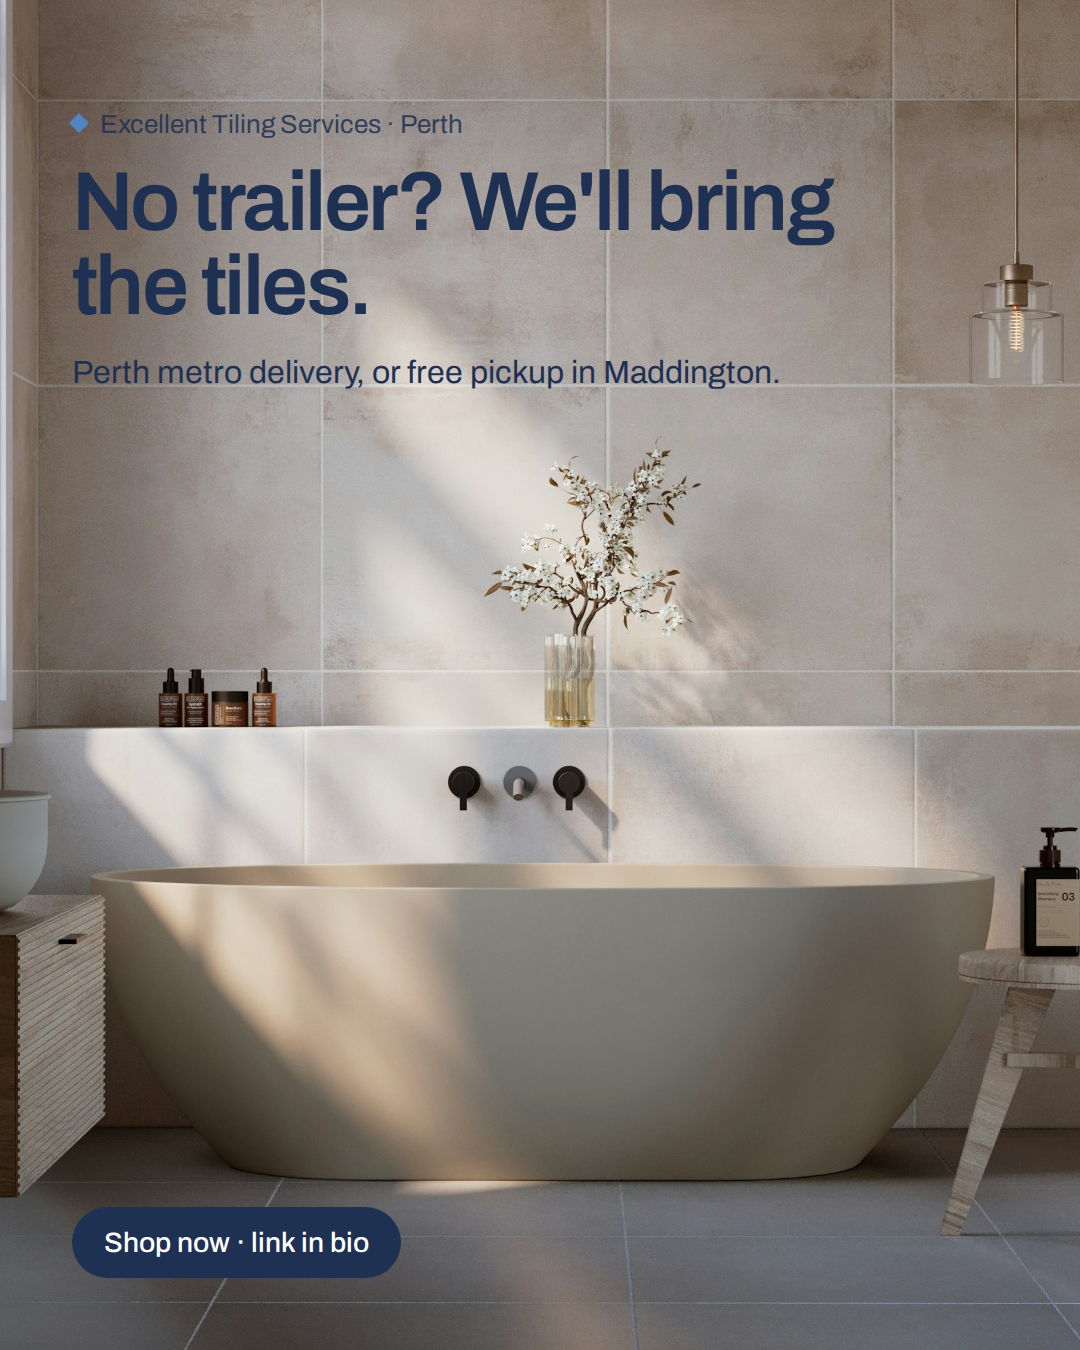
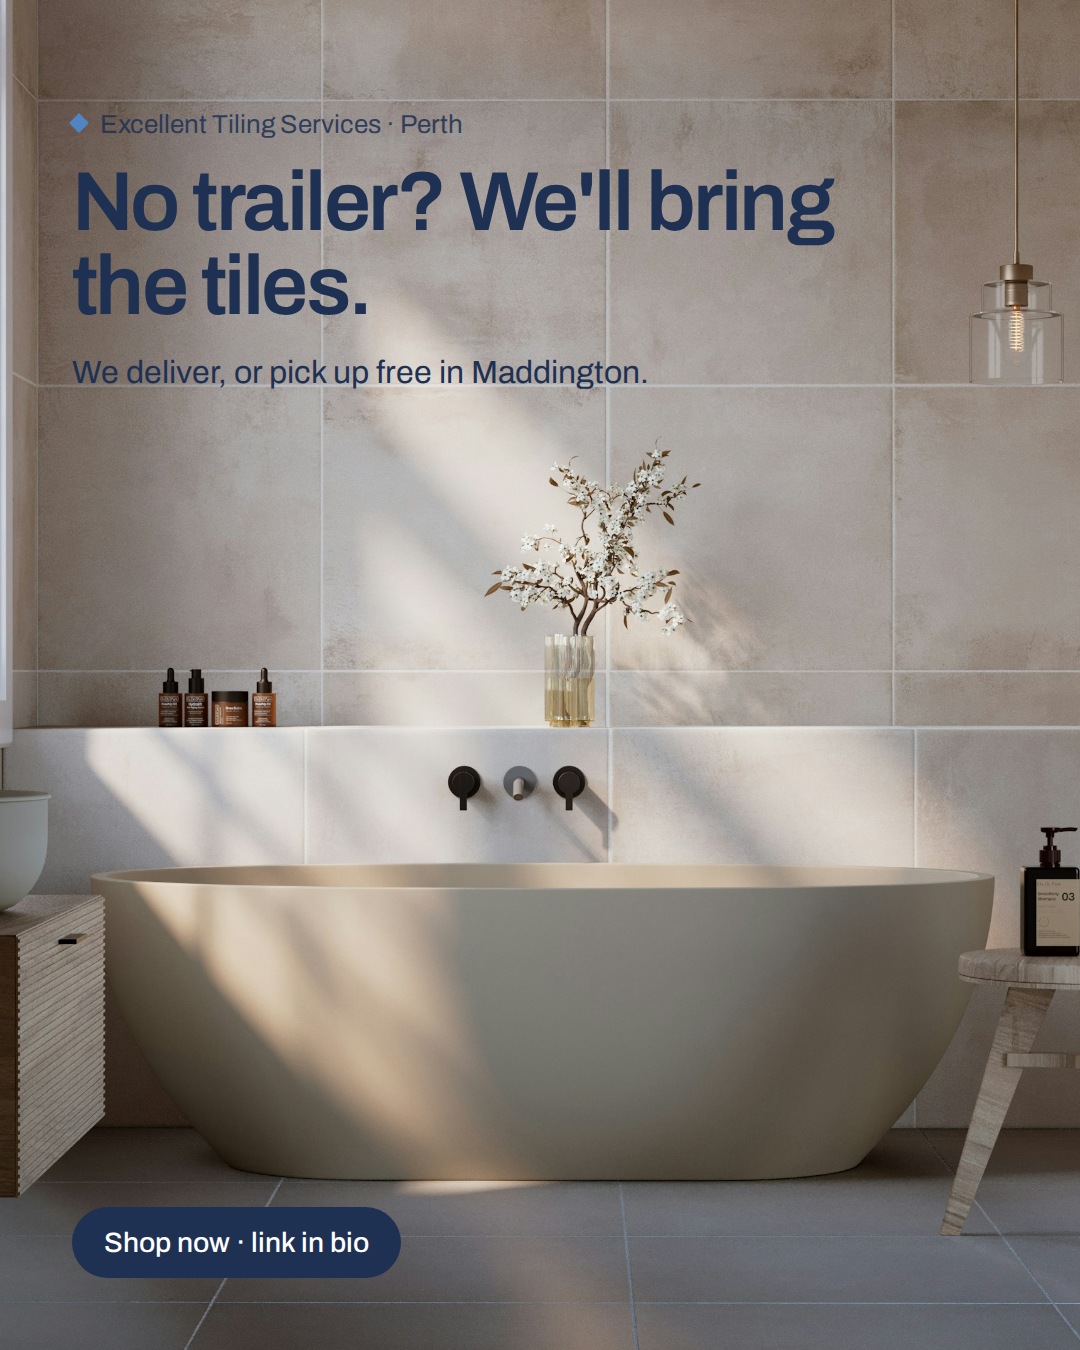
Global shipping: agents and week 1 captions drop Perth-only wording; note site text still out of date
Claude-Session: https://claude.ai/code/session_01Y6UKLN7V2VAdSWW4mDpHRp

Changed region(s): [[0.0611, 0.2489, 0.7028, 0.3111]]

diff --git a/.claude/agents/ets-marketing.md b/.claude/agents/ets-marketing.md
@@ -91,7 +91,7 @@ the owner's calendar (`ets-calendar`) in the same job; never leave the calendar 
   The owner decided on 5 Oct 2026 not to run a discount for the Finish It Right campaign (YAMEN10 was
   cancelled). Don't propose one again unless he asks.
 - Prices in posts must match the live store on the day the post goes out; re-check before reposting.
-- Shipping (re-check the live Delivery page and shipping policy before quoting; it changed several times in Oct 2026). As of 5 Oct night: tapware and accessories ship Australia-wide, priced by weight at checkout; basins and mirrors go by Australia Post from $25; free shipping only on orders of $1,000+ (not Perth local delivery); tiles, vanities, baths and toilets are Perth metro delivery or free pickup in Maddington. Never write "free shipping over $100" or "free shipping" without the $1,000 condition.
+- Shipping (owner, 6 Oct 2026: "we do global now, no more restriction to Perth only"). Checkout uses one Shipx setup covering Australia, New Zealand, the US, the UK and the UAE for all products. Don't write "Perth only" or "Perth metro delivery" as a limit. Until a real checkout test confirms prices, say "We deliver, or pick up free in Maddington. Shipping options show at checkout." and don't quote shipping prices or free-shipping thresholds. Tiling installation and the free measure and quote are still Perth metro services. Re-check the live Delivery page and checkout before quoting anything more specific.
 - Showroom is by appointment, Monday to Saturday 4:30 to 9 pm, closed Sunday. Phone 0450 960 543.
 - After any approved change: save new graphics in `marketing/`, update the campaign doc if the plan
   changed, commit with a clear message, and report what changed in a few plain lines.

diff --git a/.claude/agents/ets-social.md b/.claude/agents/ets-social.md
@@ -55,7 +55,7 @@ excellenttilingservice.com.au). The owner is busy and reads on his phone: answer
 - Before a post goes out, prices must match the live store. Each Monday, re-check that week's queued
   prices against Shopify; if one changed, update the post text with `updateScheduledPost` and say so.
 - Never name the tile supplier (Eternity) in text, alt text, file names or images. MELA can be named.
-- Shipping (re-check the live Delivery page and shipping policy before quoting; it changed several times in Oct 2026). As of 5 Oct night: tapware and accessories ship Australia-wide, priced by weight at checkout; basins and mirrors go by Australia Post from $25; free shipping only on orders of $1,000+ (not Perth local delivery); tiles, vanities, baths and toilets are Perth metro delivery or free pickup in Maddington. Never write "free shipping over $100" or "free shipping" without the $1,000 condition.
+- Shipping (owner, 6 Oct 2026: "we do global now, no more restriction to Perth only"). Checkout uses one Shipx setup covering Australia, New Zealand, the US, the UK and the UAE for all products. Don't write "Perth only" or "Perth metro delivery" as a limit. Until a real checkout test confirms prices, say "We deliver, or pick up free in Maddington. Shipping options show at checkout." and don't quote shipping prices or free-shipping thresholds. Tiling installation and the free measure and quote are still Perth metro services. Re-check the live Delivery page and checkout before quoting anything more specific.
 
 - Never pay for boosts or ads. Never delete scheduled posts without the owner naming them.
 - After any change in Metricool (new, moved, re-designed or re-captioned posts), hand the list to the

diff --git a/.claude/agents/ets-content.md b/.claude/agents/ets-content.md
@@ -33,7 +33,7 @@ business selling tiles, MELA tapware and vanities, and tiling tools at excellent
   never invented), the live price, how they get it, "Shop at excellenttilingservice.com.au (link in bio)",
   then 6–8 hashtags (#perthrenovation #perthbathrooms #bathroomrenovation #perthtiler #perthhomes
   #bathroominspo #maddington plus 1–2 for the product).
-- Shipping (re-check the live Delivery page and shipping policy before quoting; it changed several times in Oct 2026). As of 5 Oct night: tapware and accessories ship Australia-wide, priced by weight at checkout; basins and mirrors go by Australia Post from $25; free shipping only on orders of $1,000+ (not Perth local delivery); tiles, vanities, baths and toilets are Perth metro delivery or free pickup in Maddington. Never write "free shipping over $100" or "free shipping" without the $1,000 condition.
+- Shipping (owner, 6 Oct 2026: "we do global now, no more restriction to Perth only"). Checkout uses one Shipx setup covering Australia, New Zealand, the US, the UK and the UAE for all products. Don't write "Perth only" or "Perth metro delivery" as a limit. Until a real checkout test confirms prices, say "We deliver, or pick up free in Maddington. Shipping options show at checkout." and don't quote shipping prices or free-shipping thresholds. Tiling installation and the free measure and quote are still Perth metro services. Re-check the live Delivery page and checkout before quoting anything more specific.
 
 - No discount codes, no "cheaper than" or "lowest price" claims, never the tile supplier's name (Eternity).
 

diff --git a/.claude/agents/ets-community.md b/.claude/agents/ets-community.md
@@ -25,7 +25,7 @@ Monday to Saturday 4:30 to 9 pm, closed Sunday). The owner is busy: give him tex
 
 - Prices must match the live store (check with the Shopify tools). No discount codes (none running),
   no "cheaper than" claims, never name the tile supplier (Eternity).
-- Shipping (re-check the live Delivery page and shipping policy before quoting; it changed several times in Oct 2026). As of 5 Oct night: tapware and accessories ship Australia-wide, priced by weight at checkout; basins and mirrors go by Australia Post from $25; free shipping only on orders of $1,000+ (not Perth local delivery); tiles, vanities, baths and toilets are Perth metro delivery or free pickup in Maddington. Never write "free shipping over $100" or "free shipping" without the $1,000 condition.
+- Shipping (owner, 6 Oct 2026: "we do global now, no more restriction to Perth only"). Checkout uses one Shipx setup covering Australia, New Zealand, the US, the UK and the UAE for all products. Don't write "Perth only" or "Perth metro delivery" as a limit. Until a real checkout test confirms prices, say "We deliver, or pick up free in Maddington. Shipping options show at checkout." and don't quote shipping prices or free-shipping thresholds. Tiling installation and the free measure and quote are still Perth metro services. Re-check the live Delivery page and checkout before quoting anything more specific.
 
 - Never send messages, emails or posts yourself: draft them for the owner, unless he says send.
 - Never share customer details publicly or use a customer's photo or name without their permission.

diff --git a/store-content/shipping/README.md b/store-content/shipping/README.md
@@ -173,3 +173,10 @@ nothing ships interstate, and Perth local delivery shows $54 / $128 (the policy 
 within 50 km). Carrier rates may need a full street address; the site's bot check then blocked further tests,
 so re-test a real checkout with a full address once Shipx rules are set. Until rates show, social posts only
 promise free pickup in Maddington and "delivery options at checkout".
+
+## Owner: "we do global now" (6 Oct 2026)
+Live delivery settings now: one General profile, zone "Global" (AU, NZ, US, GB, AE), only rate = Shipx app, for all
+products including tiles. Still out of date on the live site: header bar and FAQs ("Tiles are Perth metro only"),
+Delivery & Pickup page ("Tiles are not shipped outside Perth"), shipping policy ("We do not ship internationally",
+"free over $100"). Social posts now avoid Perth-only wording and quote no shipping prices until a real checkout
+test confirms the Shipx rates.
